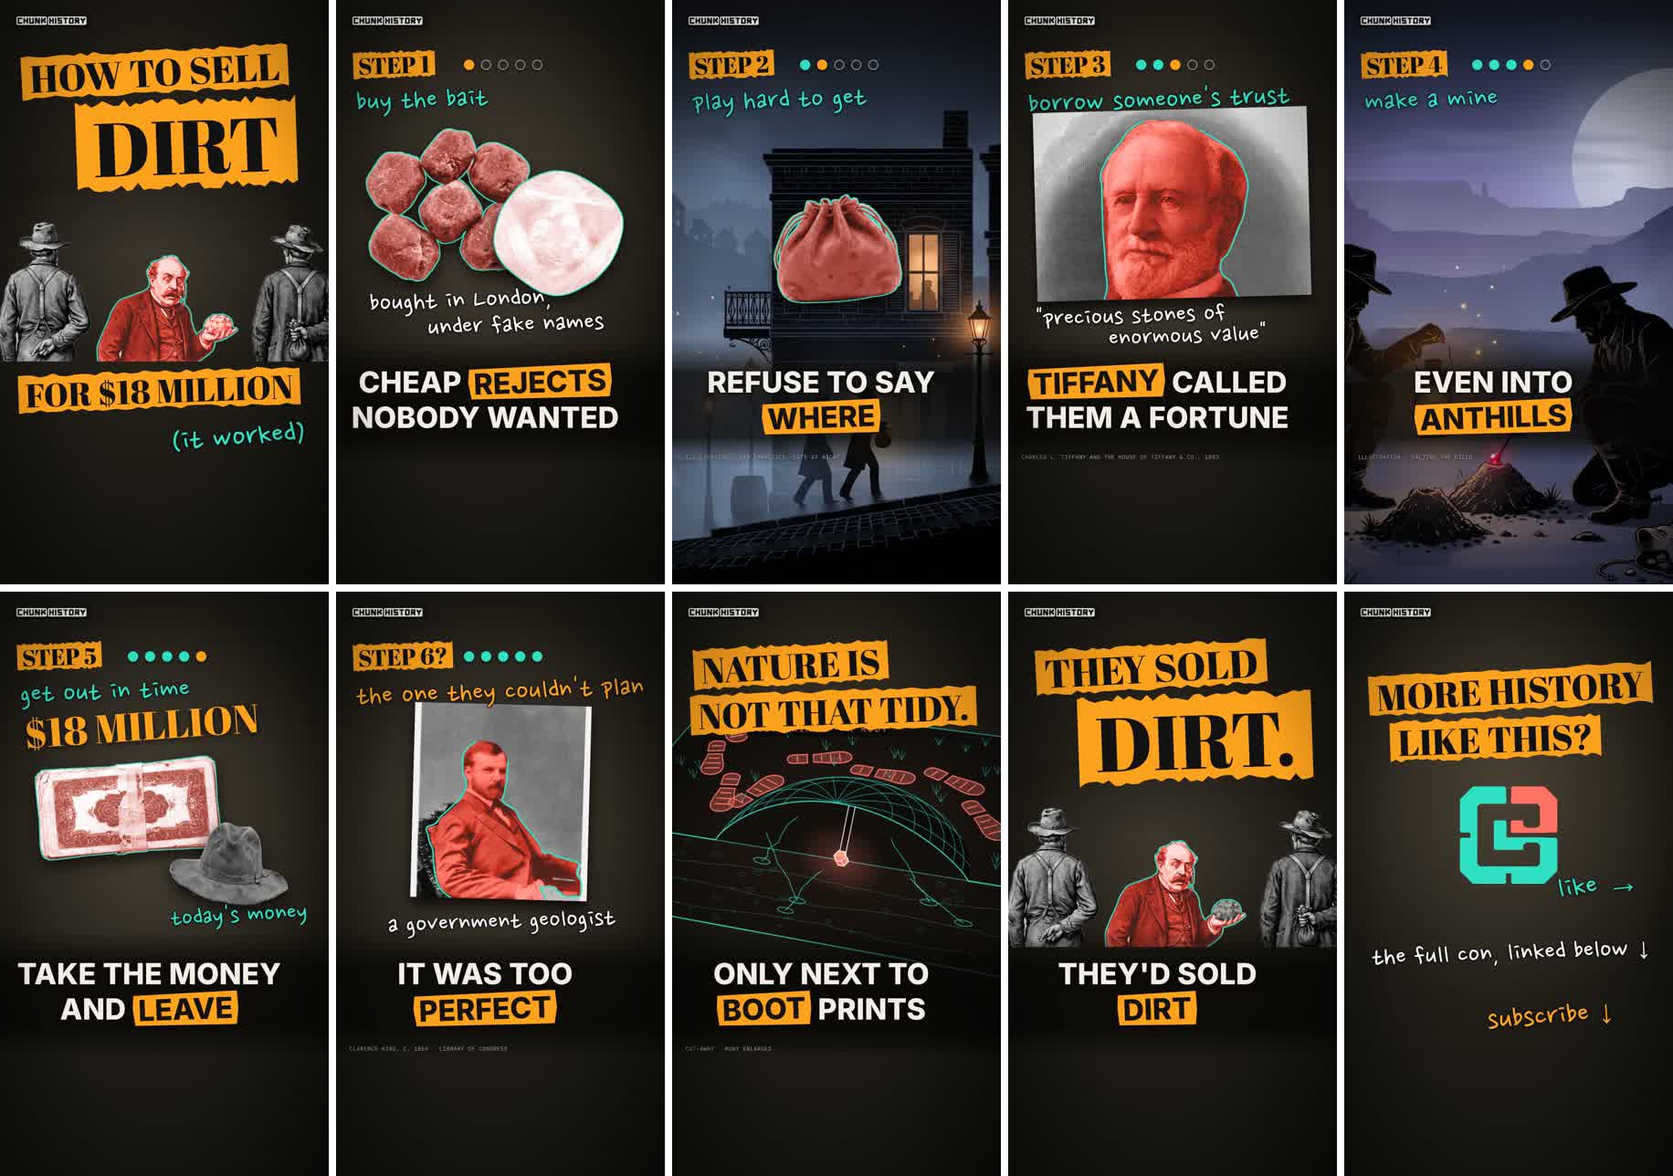
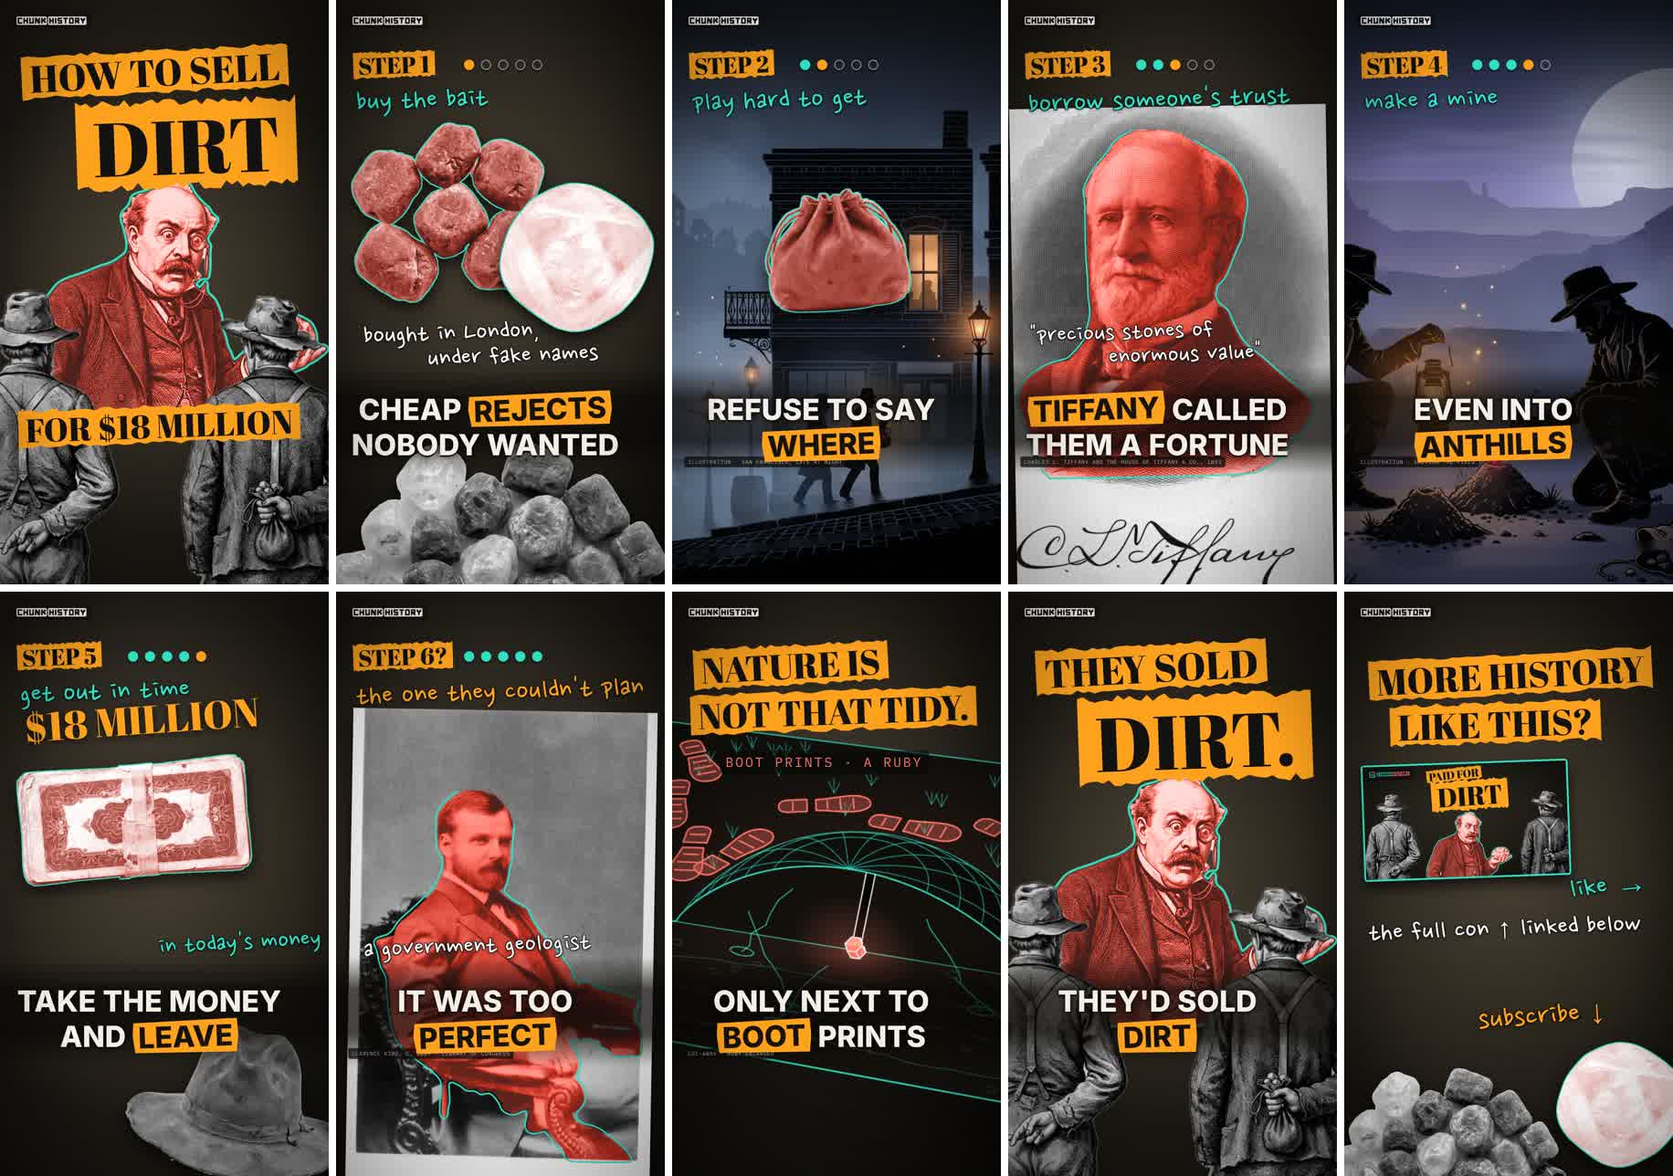
Diamond Hoax: custom Short mockup recomposed for the full 9:16 frame (no empty bottom)
The UI zones are a no-text rule only: pictures now run top to bottom under YouTube's overlay. The cover restacks the H1 picture
vertically (tycoon in the middle, the cousins large in the foreground, cut by the bottom edge); Tiffany and King as full-height
prints; props spill off the bottom; the anthill cut-away fills the frame; captions moved to the lower middle (y 1290); source
tags on a dark pill; the end card shows the full video's thumbnail. ColdOpenDepth exports its cut-out pieces for reuse.

Claude-Session: https://claude.ai/code/session_017aRbDqfPo3Y5h3nsJnFo6F

diff --git a/projects/Diamond_Hoax/src/vshort_heist.tsx b/projects/Diamond_Hoax/src/vshort_heist.tsx
@@ -1,22 +1,24 @@
 // MOCKUP (storyboard stills, no voice yet): a custom Short written for the vertical feed, not spliced from the chapters.
 //   "How to Sell Dirt for $18 Million": a heist recipe in five steps, the twist (the step they couldn't control), the payoff line,
 //   and a loop back to the cover. Each panel below is one beat of the draft script in review/shorts/Heist_Short_mockup.md.
-// The look is the channel's (dark notebook, coral subject + teal trace, orange tape, teal handwriting, 12 fps steps), adapted for
-// a phone: the picture fills the frame top to bottom, a step rail at the top is the running device, the captions carry the
-// key word on orange tape, and type on the cover is big enough to read at thumbnail size.
-// Safe zones as in vshorts.tsx: YouTube's UI covers the top ~150 px, the bottom ~400 px and the right ~150 px below y 900.
+// The look is the channel's (dark notebook, coral subject + teal trace, orange tape, teal handwriting, 12 fps steps), composed for
+// a tall frame: every picture runs top to bottom, a step rail at the top is the running device, the captions carry the key word
+// on orange tape, and the cover restacks the H1 picture vertically (the tycoon in the middle, the cousins in the foreground).
+// YouTube's UI covers the top ~150 px, the bottom ~400 px and the right ~150 px below y 900: no TEXT there, but the pictures run
+// on underneath it to the frame's edge.
 import React from 'react';
 import {AbsoluteFill, Img, Sequence, staticFile} from 'remotion';
-import {Finish, Highlight, JF, Note, PALETTES, PaletteCtx, StepCtx, Tag} from './kit/Kit';
+import {Finish, Highlight, JF, Note, PALETTES, PaletteCtx, Picture, type Place, StepCtx, Traced} from './kit/Kit';
 import {DarkPaper} from './kit/common';
 import {Stamp} from './kit/shell';
 import {Prop} from './kit/prop';
 import {maskRef} from './kit/maskref';
+import {MASKS} from './masks';
 import {BareStageCtx} from './fx/terrain/drawn3d';
 import {AnthillCutaway} from './fx/AnthillCutaway';
+import {Cousin, cut, SIZE, stoneMask, TintLayer} from './fx/ColdOpenDepth';
 import {Lamp, Print} from './ch/ch04/bits';
 import {Mark, V3D, VSil} from './vshorts';
-import {ColdOpenDepth} from './fx/ColdOpenDepth';
 import sfL from '../public/img/layers/sil/sil_sf_night/layers.json';
 import saltL from '../public/img/layers/sil/sil_salting/layers.json';
 import kingMask from '../public/img/masks/king.json';
@@ -26,7 +28,9 @@ const TEAL = '#2FE0C4';
 const ORANGE = '#FF9F1C';
 const CREAM = '#f4efe6';
 const WHITE = '#ffffff';
-const TAG_Y = 1490;
+/** Captions sit in the lower middle, the band behind them; source tags just above YouTube's bottom UI. */
+const CAP_Y = 1290;
+const TAG_Y = 1500;
 /** Frames per storyboard panel; stills are taken at PANEL - 4 so every write-on has finished. */
 export const PANEL = 40;
 
@@ -45,7 +49,7 @@ const Rail: React.FC<{n: number; name?: string; twist?: boolean}> = ({n, name, t
 );
 
 /** Captions for the feed: two to four words, cream, with the key word set on a strip of orange tape. */
-const TapeCaption: React.FC<{words: string; hot: string; y?: number}> = ({words, hot, y = 1200}) => (
+const TapeCaption: React.FC<{words: string; hot: string; y?: number}> = ({words, hot, y = CAP_Y}) => (
   <div style={{position: 'absolute', left: 50, width: 880, top: y, display: 'flex', flexWrap: 'wrap', justifyContent: 'center', alignItems: 'center', gap: '6px 22px'}}>
     {words.split(' ').map((w, k) => w === hot ? (
       <span key={k} style={{fontFamily: JF.sans, fontWeight: 800, fontSize: 96, lineHeight: 1.15, textTransform: 'uppercase', color: '#15120d',
@@ -58,34 +62,61 @@ const TapeCaption: React.FC<{words: string; hot: string; y?: number}> = ({words,
   </div>
 );
 
-/** The dark band the captions sit on, so they read over a full-height painting. */
+/** A soft dark band behind the captions, so they read over any picture without boxing it. */
 const Band: React.FC = () => (
-  <div style={{position: 'absolute', left: 0, top: 1110, width: 1080, height: 420,
-    background: 'linear-gradient(180deg, rgba(8,7,5,0) 0%, rgba(8,7,5,0.8) 28%, rgba(8,7,5,0.8) 78%, rgba(8,7,5,0) 100%)'}} />
+  <div style={{position: 'absolute', left: 0, top: CAP_Y - 90, width: 1080, height: 360,
+    background: 'linear-gradient(180deg, rgba(8,7,5,0) 0%, rgba(8,7,5,0.7) 30%, rgba(8,7,5,0.7) 70%, rgba(8,7,5,0) 100%)'}} />
 );
 
-const Desk: React.FC<{lamp?: number}> = ({lamp = 760}) => (
+/** Source tag on a small dark pill: on a full-height print the plain tag's cream text vanishes over the white paper. */
+const VTag: React.FC<{text: string; y?: number}> = ({text, y = TAG_Y}) => (
+  <div style={{position: 'absolute', left: 40, top: y, padding: '6px 12px', borderRadius: 6, background: 'rgba(13,12,9,0.78)', fontFamily: JF.mono, fontSize: 18,
+    letterSpacing: 1, color: 'rgba(255,255,255,0.88)', textTransform: 'uppercase'}}>{text}</div>
+);
+
+const Desk: React.FC<{lamp?: number}> = ({lamp = 900}) => (
   <>
     <DarkPaper />
-    <Lamp x={540} y={lamp} r={720} a={0.15} />
+    <Lamp x={540} y={lamp} r={900} a={0.15} />
   </>
 );
 
 const TIFFANY = maskRef('ch04_tiffany', tiffanyMask);
 const KING = maskRef('king', kingMask);
 
-/** The whole H1 picture (drawn at 1920x1080) across the frame's width: both cousins and the tycoon between them. */
-const H1Wide: React.FC<{top: number; drain?: boolean}> = ({top, drain}) => (
-  <div style={{position: 'absolute', left: 0, top, width: 1920, height: 1080, transform: 'scale(0.5625)', transformOrigin: '0 0', overflow: 'hidden'}}>
-    <ColdOpenDepth cam={[{f: 0, d: 0, x: 0, y: 0}, {f: 200, d: 30, x: 0, y: 8}]} drainAt={drain ? 0 : undefined} />
-  </div>
-);
+// The H1 picture restacked for 9:16: the tycoon (coral, traced) across the middle, the two cousins large in the foreground,
+// cut off by the bottom edge. Same cut-outs as ColdOpenDepth; on `drain` the stone in his hand goes grey ("dirt").
+const TYC_V: Place = {left: -40, top: 560, scale: 0.97};
+const COUSIN_LV: Place = {left: -250, top: 930, scale: 1.45};
+const COUSIN_RV: Place = {left: -760, top: 930, scale: 1.45};
+const H1Tall: React.FC<{drain?: boolean}> = ({drain}) => {
+  const t = MASKS.tycoon_b.alpha;
+  return (
+    <AbsoluteFill>
+      <DarkPaper />
+      <Lamp x={540} y={980} r={760} a={0.16} />
+      <div style={{position: 'absolute', left: TYC_V.left, top: TYC_V.top, width: SIZE[0] * TYC_V.scale, height: SIZE[1] * TYC_V.scale, ...cut(t),
+        filter: 'drop-shadow(0 20px 30px rgba(0,0,0,0.6))'}}>
+        <Picture src="img/gen/thumb/tycoon_b_clean.png" place={{left: 0, top: 0, scale: TYC_V.scale}} size={SIZE} bw="grayscale(1) contrast(1.15) brightness(1.02)" />
+      </div>
+      <TintLayer place={TYC_V} mask={stoneMask(t, false)} strength={1} />
+      {drain ? (
+        <div style={{position: 'absolute', left: TYC_V.left, top: TYC_V.top, width: SIZE[0] * TYC_V.scale, height: SIZE[1] * TYC_V.scale, ...stoneMask(t, true),
+          background: '#3a3530', mixBlendMode: 'multiply', opacity: 0.45}} />
+      ) : <TintLayer place={TYC_V} mask={stoneMask(t, true)} strength={1} />}
+      <Traced paths={MASKS.tycoon_b.data.shapes.subject} place={TYC_V} at={-999} dur={1} width={7} />
+      <div style={{position: 'absolute', inset: 0, filter: 'blur(1px)'}}>
+        <Cousin mask={MASKS.cousin_l.alpha} at={COUSIN_LV} />
+        <Cousin mask={MASKS.cousin_r.alpha} at={COUSIN_RV} />
+      </div>
+    </AbsoluteFill>
+  );
+};
 
-/** Panel 0, the cover (frame 0 of the Short): the H1 picture with the claim in big tape, readable with the sound off. */
+/** Panel 0, the cover (frame 0 of the Short), and its answer at the end (the loop frame). */
 const Cover: React.FC<{end?: boolean}> = ({end}) => (
   <AbsoluteFill>
-    <DarkPaper />
-    <H1Wide top={end ? 560 : 580} drain={end} />
+    <H1Tall drain={end} />
     {end ? (
       <>
         <Highlight text="THEY SOLD" x={90} y={170} size={128} at={0} seed={131} rot={-3} />
@@ -95,90 +126,101 @@ const Cover: React.FC<{end?: boolean}> = ({end}) => (
       <>
         <Highlight text="HOW TO SELL" x={70} y={160} size={124} at={-30} seed={121} rot={-3} />
         <Highlight text="DIRT" x={250} y={320} size={250} at={-30} seed={122} rot={-2} />
-        <Highlight text="FOR $18 MILLION" x={60} y={1215} size={108} at={-30} seed={123} rot={-2} />
-        <Note text="(it worked)" x={560} y={1370} size={72} rot={-4} at={-30} color={TEAL} />
+        <Highlight text="FOR $18 MILLION" x={60} y={1330} size={108} at={-30} seed={123} rot={-2} />
       </>
     )}
   </AbsoluteFill>
 );
 
-type P = {words: string; hot: string; band?: boolean; node: React.ReactNode};
+type P = {words: string; hot: string; node: React.ReactNode};
 const PANELS: P[] = [
   {words: '', hot: '', node: <Cover />},
   {words: 'cheap rejects nobody wanted', hot: 'rejects', node: (
     <AbsoluteFill>
-      <Desk lamp={700} />
-      <Prop name="rough_rubies" x={90} y={420} w={560} rot={-6} at={0} coral trace from="none" />
-      <Prop name="rough_diamond" x={520} y={560} w={420} rot={8} at={1} coral trace from="none" />
-      <Note text="bought in London," x={110} y={930} size={62} rot={-2} at={3} color={WHITE} />
-      <Note text="under fake names" x={300} y={1010} size={62} rot={-2} at={4} color={WHITE} />
+      <Desk lamp={820} />
+      <Prop name="rough_rubies" x={40} y={400} w={660} rot={-6} at={0} coral trace from="none" />
+      <Prop name="rough_diamond" x={540} y={600} w={500} rot={8} at={1} coral trace from="none" />
+      <Note text="bought in London," x={90} y={1040} size={60} rot={-2} at={3} color={WHITE} />
+      <Note text="under fake names" x={300} y={1115} size={60} rot={-2} at={4} color={WHITE} />
+      {/* the rest of the reject pile runs off the bottom of the frame, under YouTube's overlay */}
+      <Prop name="stone_pile" x={-60} y={1440} w={1200} rot={-3} at={0} from="none" />
       <Rail n={1} name="buy the bait" />
     </AbsoluteFill>
   )},
-  {words: 'refuse to say where', hot: 'where', band: true, node: (
+  {words: 'refuse to say where', hot: 'where', node: (
     <AbsoluteFill>
       <VSil name="sil_sf_night" size={sfL.size} glowLayer={sfL.glowLayer} a={-20} b={60} fx={[0.47, 0.5]} z={[1.06, 1.1]} />
-      <Prop name="leather_pouch" x={330} y={640} w={420} rot={-4} at={2} coral trace from="none" />
+      <Prop name="leather_pouch" x={300} y={620} w={480} rot={-4} at={2} coral trace from="none" />
       <Rail n={2} name="play hard to get" />
-      <Tag text="Illustration · San Francisco, late at night" y={TAG_Y} />
+      <VTag text="Illustration · San Francisco, late at night" y={TAG_Y} />
     </AbsoluteFill>
   )},
   {words: 'Tiffany called them a fortune', hot: 'Tiffany', node: (
     <AbsoluteFill>
       <Desk />
-      <Print src="img/ch04/tiffany_charles_engraving_1893.jpg" size={[1497, 2199]} crop={[80, 30, 1340, 1000]} x={90} y={360} w={900} h={620} rot={-1.5} at={0} mask={TIFFANY} traceAt={0} />
-      <Note text={'"precious stones of'} x={90} y={985} size={60} rot={-2} at={3} color={WHITE} />
-      <Note text={'enormous value"'} x={330} y={1050} size={60} rot={-2} at={4} color={WHITE} />
+      {/* the whole engraving, top of the head to the bottom of the frame */}
+      <Print src="img/ch04/tiffany_charles_engraving_1893.jpg" size={[1497, 2199]} crop={[60, 20, 1437, 2199]} x={20} y={350} w={1040} h={1645} rot={-1} at={0} mask={TIFFANY} traceAt={0} />
+      <Note text={'"precious stones of'} x={70} y={1040} size={58} rot={-2} at={3} color={WHITE} />
+      <Note text={'enormous value"'} x={330} y={1112} size={58} rot={-2} at={4} color={WHITE} />
       <Rail n={3} name="borrow someone's trust" />
-      <Tag text="Charles L. Tiffany and the House of Tiffany & Co., 1893" y={TAG_Y} />
+      <VTag text="Charles L. Tiffany and the House of Tiffany & Co., 1893" y={TAG_Y} />
     </AbsoluteFill>
   )},
-  {words: 'even into anthills', hot: 'anthills', band: true, node: (
+  {words: 'even into anthills', hot: 'anthills', node: (
     <AbsoluteFill>
       <VSil name="sil_salting" size={saltL.size} glowLayer={saltL.glowLayer} a={-20} b={60} fx={[0.46, 0.52]} z={[1.06, 1.12]} />
       <Rail n={4} name="make a mine" />
-      <Tag text="Illustration · salting the field" y={TAG_Y} />
+      <VTag text="Illustration · salting the field" y={TAG_Y} />
     </AbsoluteFill>
   )},
   {words: 'take the money and leave', hot: 'leave', node: (
     <AbsoluteFill>
-      <Desk />
-      <Prop name="banknotes_stack" x={120} y={560} w={600} rot={-5} at={0} coral trace from="none" />
-      <Prop name="slouch_hat" x={560} y={760} w={400} rot={10} at={1} from="none" />
-      <Stamp text="$18 MILLION" x={80} y={400} at={2} size={130} color={ORANGE} rot={-4} />
-      <Note text="today's money" x={560} y={1010} size={58} rot={-3} at={3} color={TEAL} />
+      <Desk lamp={860} />
+      <Stamp text="$18 MILLION" x={80} y={380} at={2} size={130} color={ORANGE} rot={-4} />
+      <Prop name="banknotes_stack" x={60} y={560} w={760} rot={-5} at={0} coral trace from="none" />
+      <Note text="in today's money" x={520} y={1100} size={58} rot={-3} at={3} color={TEAL} />
+      {/* the hat on its way out of frame, bottom right */}
+      <Prop name="slouch_hat" x={420} y={1430} w={760} rot={12} at={1} from="none" />
       <Rail n={5} name="get out in time" />
     </AbsoluteFill>
   )},
   {words: 'it was too perfect', hot: 'perfect', node: (
     <AbsoluteFill>
       <Desk />
-      <Print src="img/ch07/king_clarence_age27_c1869.jpg" size={[923, 1536]} crop={[0, 90, 923, 1055]} x={250} y={370} w={580} h={640} rot={1.5} at={0} mask={KING} traceAt={0} />
-      <Note text="a government geologist" x={170} y={1030} size={60} rot={-2} at={3} color={WHITE} />
+      {/* the whole seated portrait, filling the frame below the rail */}
+      <Print src="img/ch07/king_clarence_age27_c1869.jpg" size={[923, 1536]} crop={[0, 40, 923, 1536]} x={40} y={390} w={1000} h={1620} rot={1} at={0} mask={KING} traceAt={0} />
+      <Note text="a government geologist" x={90} y={1110} size={60} rot={-2} at={3} color={WHITE} />
       <Rail n={6} name="the one they couldn't plan" twist />
-      <Tag text="Clarence King, c. 1869 · Library of Congress" y={TAG_Y} />
+      <VTag text="Clarence King, c. 1869 · Library of Congress" y={TAG_Y} />
     </AbsoluteFill>
   )},
   {words: 'only next to boot prints', hot: 'boot', node: (
     <AbsoluteFill>
-      <V3D x={-692} y={-6} s={1.4}>
+      {/* the cut-away scaled up so the hill and the boot prints fill the frame top to bottom */}
+      <V3D x={-1180} y={-90} s={2.0}>
         <AnthillCutaway at={-400} sliceAt={-380} rubyAt={-330} printsAt={-300} compareAt={1e7} labels={false} />
       </V3D>
       <Highlight text="NATURE IS" x={70} y={170} size={116} at={0} seed={141} rot={-3} />
       <Highlight text="NOT THAT TIDY." x={60} y={320} size={116} at={2} seed={142} rot={-2} />
-      <Tag text="Cut-away · ruby enlarged" y={TAG_Y} />
+      <VTag text="Cut-away · ruby enlarged" y={TAG_Y} />
     </AbsoluteFill>
   )},
   {words: "they'd sold dirt", hot: 'dirt', node: <Cover end />},
   {words: '', hot: '', node: (
     <AbsoluteFill>
-      <Desk lamp={640} />
-      <Highlight text="MORE HISTORY" x={80} y={250} size={118} at={0} seed={151} rot={-3} />
-      <Highlight text="LIKE THIS?" x={150} y={410} size={118} at={2} seed={152} rot={-2} />
-      <Img src={staticFile('img/brand/chunk-history-mark.svg')} style={{position: 'absolute', left: 380, top: 640, width: 320, height: 320}} />
-      <Note text="like →" x={700} y={900} size={70} rot={-6} at={4} color={TEAL} />
-      <Note text="the full con, linked below ↓" x={90} y={1130} size={62} rot={-2} at={5} color={WHITE} />
-      <Note text="subscribe ↓" x={470} y={1330} size={70} rot={-4} at={6} color={ORANGE} />
+      <Desk lamp={900} />
+      <Highlight text="MORE HISTORY" x={80} y={200} size={118} at={0} seed={151} rot={-3} />
+      <Highlight text="LIKE THIS?" x={150} y={360} size={118} at={2} seed={152} rot={-2} />
+      {/* the full video, as a card on the desk: the thing the Related video link opens */}
+      <div style={{position: 'absolute', left: 60, top: 560, width: 680, height: 382, transform: 'rotate(-2deg)', border: `6px solid ${TEAL}`, borderRadius: 10,
+        overflow: 'hidden', boxShadow: '0 24px 40px rgba(0,0,0,0.7)'}}>
+        <Img src={staticFile('img/brand/diamond_hoax_h1.png')} style={{width: '100%', height: '100%', objectFit: 'cover'}} />
+      </div>
+      <Note text="the full con ↑ linked below" x={80} y={1050} size={62} rot={-2} at={5} color={WHITE} />
+      <Note text="like →" x={740} y={905} size={66} rot={-6} at={4} color={TEAL} />
+      <Note text="subscribe ↓" x={440} y={1330} size={70} rot={-4} at={6} color={ORANGE} />
+      <Prop name="rough_diamond" x={700} y={1480} w={420} rot={10} at={1} coral trace from="none" />
+      <Prop name="stone_pile" x={-80} y={1560} w={820} rot={-4} at={0} from="none" />
     </AbsoluteFill>
   )},
 ];

diff --git a/projects/Diamond_Hoax/src/fx/ColdOpenDepth.tsx b/projects/Diamond_Hoax/src/fx/ColdOpenDepth.tsx
@@ -23,8 +23,8 @@ import {MASKS} from '../masks';
 const CORAL = '#FF6F61';
 const clamp = {extrapolateLeft: 'clamp', extrapolateRight: 'clamp'} as const;
 const PERSP = 1200;
-const SIZE: [number, number] = [1200, 896];
-const PAIR: [number, number] = [1376, 768];
+export const SIZE: [number, number] = [1200, 896];
+export const PAIR: [number, number] = [1376, 768];
 // the H1 layout (ThumbsDiamond.tsx: COUSIN_L, COUSIN_R, TYC_LOW)
 const COUSIN_L: Place = {left: -40, top: 250, scale: 1.3};
 const COUSIN_R: Place = {left: 250, top: 250, scale: 1.3};
@@ -33,18 +33,18 @@ const TYC: Place = {left: 520, top: 440, scale: 0.75};
 const STONE = {cx: 83.3, cy: 63.4, rx: 9.6, ry: 10};
 const Z = {cousins: 260, tycoon: 0, desk: -900};
 
-const cut = (alpha: string): React.CSSProperties =>
+export const cut = (alpha: string): React.CSSProperties =>
   ({WebkitMaskImage: `url(${staticFile(alpha)})`, WebkitMaskSize: '100% 100%', maskImage: `url(${staticFile(alpha)})`, maskSize: '100% 100%'}) as React.CSSProperties;
 
 /** Mask = the subject's alpha intersected with the stone ellipse (inside) or with everything but it (outside). */
-const stoneMask = (alpha: string, inside: boolean): React.CSSProperties => {
+export const stoneMask = (alpha: string, inside: boolean): React.CSSProperties => {
   const ell = `radial-gradient(ellipse ${STONE.rx}% ${STONE.ry}% at ${STONE.cx}% ${STONE.cy}%, ${inside ? '#000 82%, transparent 100%' : 'transparent 82%, #000 100%'})`;
   const url = `url(${staticFile(alpha)})`;
   return {WebkitMaskImage: `${url}, ${ell}`, WebkitMaskSize: '100% 100%, 100% 100%', WebkitMaskRepeat: 'no-repeat', WebkitMaskComposite: 'source-in',
     maskImage: `${url}, ${ell}`, maskSize: '100% 100%, 100% 100%', maskRepeat: 'no-repeat', maskComposite: 'intersect'} as React.CSSProperties;
 };
 
-const TintLayer: React.FC<{place: Place; mask: React.CSSProperties; strength: number}> = ({place, mask, strength}) => {
+export const TintLayer: React.FC<{place: Place; mask: React.CSSProperties; strength: number}> = ({place, mask, strength}) => {
   if (strength <= 0.001) return null;
   const box: React.CSSProperties = {position: 'absolute', left: place.left, top: place.top, width: SIZE[0] * place.scale, height: SIZE[1] * place.scale, ...mask};
   return (
@@ -56,7 +56,7 @@ const TintLayer: React.FC<{place: Place; mask: React.CSSProperties; strength: nu
   );
 };
 
-const Cousin: React.FC<{mask: string; at: Place}> = ({mask, at}) => (
+export const Cousin: React.FC<{mask: string; at: Place}> = ({mask, at}) => (
   <div style={{position: 'absolute', left: at.left, top: at.top, width: PAIR[0] * at.scale, height: PAIR[1] * at.scale, ...cut(mask), filter: 'drop-shadow(0 0 40px rgba(0,0,0,0.85))'}}>
     <Picture src="img/gen/thumb/cousins_a_pro.png" place={{left: 0, top: 0, scale: at.scale}} size={PAIR} bw="grayscale(1) contrast(1.2) brightness(0.8)" />
   </div>

diff --git a/projects/Diamond_Hoax/review/shorts/Heist_Short_mockup.md b/projects/Diamond_Hoax/review/shorts/Heist_Short_mockup.md
@@ -54,8 +54,12 @@ a fortune" stands for his "precious stones of enormous value"; the rubies-by-boo
 - **One person, one decision:** the moment someone chose ("not enough money in the Bank of California…").
 
 **The visual style, adapted for the phone (what's new in the mockup):**
-- **Fill the frame.** Silhouette paintings run the full height and the subject fills the width, so the bottom half isn't empty
-  paper. Nothing to read sits in YouTube's UI zones (top ~150 px, bottom ~400 px, right ~150 px below y 900).
+- **Fill the whole 1080×1920 frame, top to bottom.** YouTube's UI zones (top ~150 px, bottom ~400 px, right ~150 px below
+  y 900) are only a no-*text* rule: the picture keeps going underneath them to the edge. Paintings and portraits run the full
+  height (Tiffany's engraving down to his signature, King's seated portrait to the chair), props spill off the bottom (the reject
+  pile, the hat leaving frame), and the cover restacks the H1 picture for a tall frame: the tycoon in the middle, the cousins
+  large in the foreground, cut by the bottom edge. Captions sit in the lower middle (y ~1290), over the picture.
+- **Source tags on a small dark pill,** so they stay readable over a white print.
 - **The step rail** at the top (STEP n on tape, five progress dots, the step's name in teal handwriting) is the running device,
   in the channel's own tape and handwriting.
 - **Tape captions:** two to four words, 96 px, cream, with the key word on a strip of orange tape. They're bigger and more on-brand
